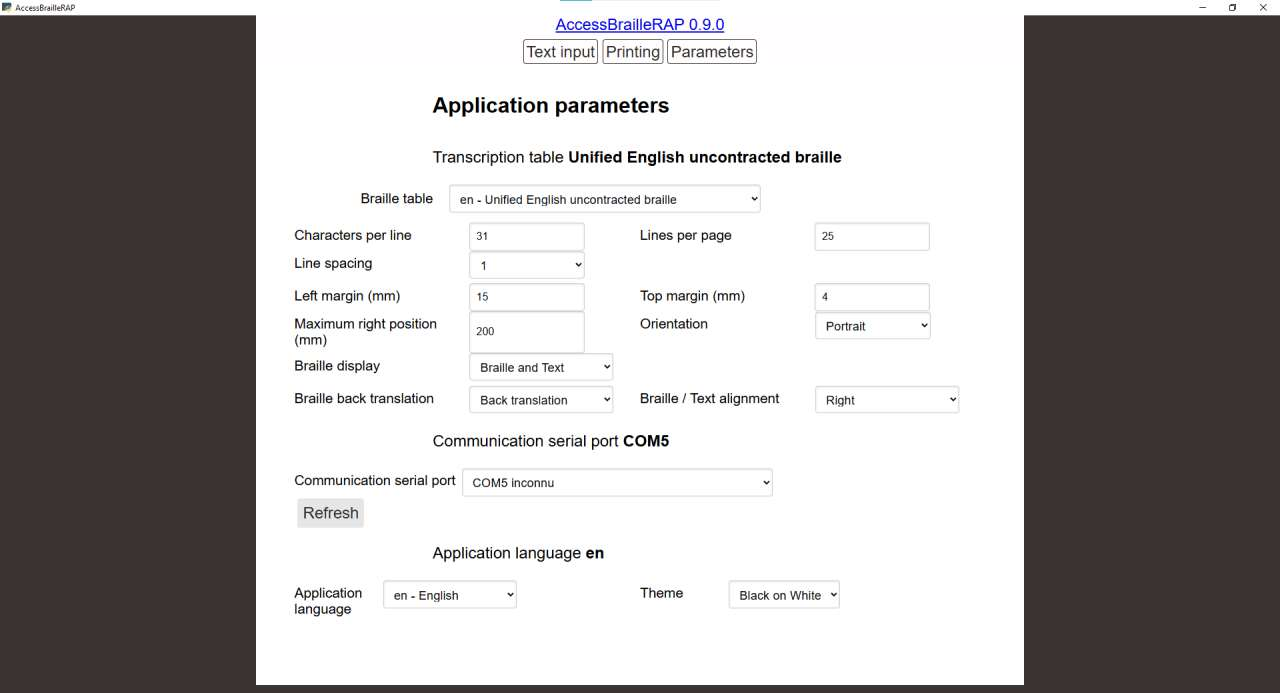
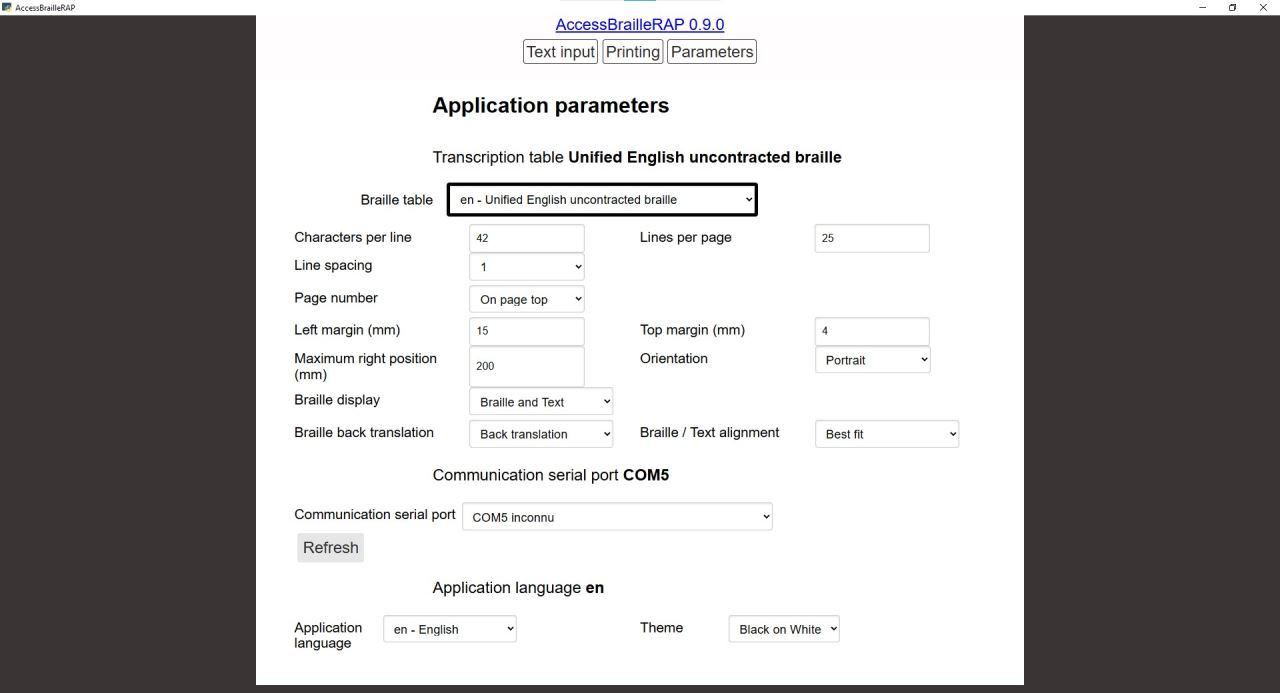
doc: add new features

diff --git a/docs/basicfeatures.md b/docs/basicfeatures.md
@@ -113,54 +113,63 @@ L'action de cliquer sur l'option *Paramètres* affiche une page relative à la c
 ![Capture d'écran de la page paramètres](./IMG/screenshot_parameters.jpg)
 
 #### Table Braille
-Cette section permet de définir le standard utilisé pour la transcription du texte en Braille. **Attention** il existe parfois plusieurs standard Braille pour la même langue (3 en Français par exemple) et ce paramêtres est indépendant de la langue de l'interface. Vous pouvez par exemple utiliser AccesBrailleRAP en Français et transcrire le Braille au standard Vietnamien si les lecteurs du document utilisent ce standard Braille.
+  Cette section permet de définir le standard utilisé pour la transcription du texte en Braille. **Attention** il existe parfois plusieurs standard Braille pour la même langue (3 en Français par exemple) et ce paramêtres est indépendant de la langue de l'interface. Vous pouvez par exemple utiliser AccesBrailleRAP en Français et transcrire le Braille au standard Vietnamien si les lecteurs du document utilisent ce standard Braille.
 
 #### Nombre de caractères par ligne
-Cette section permet de définir le nombre de caractères Braille par ligne.
+  Cette section permet de définir le nombre de caractères Braille par ligne.
 
 #### Nombre de lignes par page
-Cette section permet de définir le nombre lignes de caractères Braille disponible sur une page. Attention il s'agit du nombre de lignes quand on utilise l'interligne 1 (simple).
+  Cette section permet de définir le nombre lignes de caractères Braille disponible sur une page. Attention il s'agit du nombre de lignes quand on utilise l'interligne 1 (simple).
 
 #### Interligne
-Cette valeur permet de choisir l'interligne utilisé pour l'embossage du document. Il existe 3 interlignes : 1 (simple), 1.5 (un interligne et demi) et 2 (double).
+Cette valeur permet de choisir l'interligne utilisé pour l'embossage du document. Il existe 3 interlignes : 
+- **1** (interligne simple)
+- **1.5** (un interligne et demi)
+- **2** (interligne double).
+
+#### Numérotation des pages
+Cette option permet de choisir le style de numérotation des pages.
+- **Aucune**. Les pages ne seront pas numérotées, on conserve une ligne supplémentaire pour le texte.
+- **En haut de page**. Le numéro de page apparaitra en haut à droite de la page.
+- **En bas de page**. Le numéro de page apparaitra en bas à doite de la page.
 
 #### Marge gauche (mm)
-Cette valeur détermine la valeur de la marge à la gauche du document.
+  Cette valeur détermine la valeur de la marge à la gauche du document.
 
 #### Marge début de page (mm)
-Cette valeur détermine la valeur de la marge en haut du document.
+  Cette valeur détermine la valeur de la marge en haut du document.
 
 #### Position maximum droite (mm)
-Cette valeur détermine la position maximale sur la droite de la feuille en impression paysage. Pour une feuille A4 environ 200 mm, pour une feuille A3 environ 280 mm. Veuillez noter que la BrailleRAP ne detecte pas l'orientation de la feuille, elle tiendra uniquement compte des informations transmisent par AccessBrailleRAP. La fonction paysage est donc destinée à embosser un texte en paysage sur une feuille insérée en mode portrait !
+  Cette valeur détermine la position maximale sur la droite de la feuille en impression paysage. Pour une feuille A4 environ 200 mm, pour une feuille A3 environ 280 mm. Veuillez noter que la BrailleRAP ne detecte pas l'orientation de la feuille, elle tiendra uniquement compte des informations transmisent par AccessBrailleRAP. La fonction paysage est donc destinée à embosser un texte en paysage sur une feuille insérée en mode portrait !
 
 #### Orientation
 Cette valeur détermine l'orientation de l'impression. 
-- Portrait : Les lignes seront imprimées paralellement au bord haut de la feuille.
-- Paysage : La lignes seront imprimées paralellement au bord droit de la feuille. La première ligne sera imprimée à la position **Position maximum droite (mm)**
+- **Portrait** : Les lignes seront imprimées paralellement au bord haut de la feuille.
+- **Paysage** : La lignes seront imprimées paralellement au bord droit de la feuille. La première ligne sera imprimée à la position **Position maximum droite (mm)**
 
 #### Affichage Braille
 Cette option permet de sélectionner le type d'affichage Braille dans la page consacrée à l'impression.
-- Braille et Texte : Le texte en Braille est affiché, avec le texte en noir juste en dessous.
-- Braille seulement : Seul le texte en Braille est affiché.
+- **Braille et Texte** : Le texte en Braille est affiché, avec le texte en noir juste en dessous.
+- **Braille seulement** : Seul le texte en Braille est affiché.
 Cette option ne change pas l'impression, la BrailleRAP embossera uniquement le texte en Braille. Le double affichage Braille / texte en noir vous permet, si vous êtes voyant, d'améliorer la mise en page du Braille sans réinterpréter le Braille.
 
 #### Transcription Braille inversée
 Cette option détermine la manière dont sera produit le texte en noir affiché en association avec le texte en Braille. 
-- Transcription inverse : Liblouis sera utilisé pour produire le texte en noir.
-- Texte original : Dans certaine langue, la transcription inverse de Liblouis fonctionne mal. Cette option permet d'utiliser le texte original avant transcription en Braille. 
+- **Transcription inverse** : Liblouis sera utilisé pour produire le texte en noir.
+- **Texte original** : Dans certaine langue, la transcription inverse de Liblouis fonctionne mal. Cette option permet d'utiliser le texte original avant transcription en Braille. 
 
 #### Alignement Braille / texte en noir
 Cette option vous permet de choisr la méthode souhaitée pour aligner le texte en noir par rapport au Braille. En effet la transcription Braille ajoute dans certain cas des caractères pour marquer des situations spécifiques (Majuscule, symbole tout en majuscules ...)
-- A droite : Aligne chaque mot du texte en noir sur la fin du texte en Braille. C'est suffisant pour des prefixes simples comme la majuscule en Braille Français '⠨'. Par contre, cela peut devenir difficile à lire dans certain cas, notamment quand les sequences d'échapement sont situées au milieu d'un mot. Par exemple BrailleRAP se transcrit en français par ⠨⠃⠗⠁⠊⠇⠇⠑⠨⠨⠗⠁⠏, l'alignement à droite va aligner correctement le 'RAP' de la fin, par contre le début du mot sera décalé a  cause du double symbole de majuscule '⠨⠨'.
-- Meilleure option : Cette option utilise la transcription Braille du mot en minuscule pour ajuster au mieux le mot en Braille et le mot en noir. Cette option est utilisé avec certain standard Braille qui ajoute des suffixes à la fin des mots.
+- **A droite** : Aligne chaque mot du texte en noir sur la fin du texte en Braille. C'est suffisant pour des prefixes simples comme la majuscule en Braille Français '⠨'. Par contre, cela peut devenir difficile à lire dans certain cas, notamment quand les sequences d'échapement sont situées au milieu d'un mot. Par exemple BrailleRAP se transcrit en français par ⠨⠃⠗⠁⠊⠇⠇⠑⠨⠨⠗⠁⠏, l'alignement à droite va aligner correctement le 'RAP' de la fin, par contre le début du mot sera décalé a  cause du double symbole de majuscule '⠨⠨'.
+- **Meilleure option** : Cette option utilise la transcription Braille du mot en minuscule pour ajuster au mieux le mot en Braille et le mot en noir. Cette option est utilisé avec certain standard Braille qui ajoute des suffixes à la fin des mots.
 
 
 #### Port de communication
-Cette valeur désigne le port de communication utilisé pour la communication avec la BrailleRAP. Si vous avez branché la BrailleRAP après le lancement du logiciel, vous pouvez rafraichir la liste des ports de communication disponible en utilisant le bouton **Actualiser**.
+  Cette valeur désigne le port de communication utilisé pour la communication avec la BrailleRAP. Si vous avez branché la BrailleRAP après le lancement du logiciel, vous pouvez rafraichir la liste des ports de communication disponible en utilisant le bouton **Actualiser**.
 
 #### Langue de l'application
-Cette valeur permet de définir la langue de l'interface de l'application.
+  Cette valeur permet de définir la langue de l'interface de l'application.
 
 #### Thème
-Cette valeur permet de définir le thème de l'interface de l'application, vous avez la possibilité de choisir entre une interface claire sur fond sombre ou une interface sombre sur fond clair.
+  Cette valeur permet de définir le thème de l'interface de l'application, vous avez la possibilité de choisir entre une interface claire sur fond sombre ou une interface sombre sur fond clair.
 
